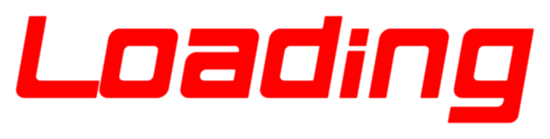
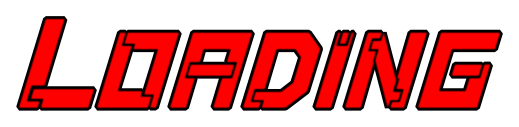
loading image changed + fixes of centering predictions

diff --git a/docs/js/game.js b/docs/js/game.js
@@ -77,10 +77,11 @@ async function runDetection() {
             if (boxes[i]["label"] == "fist") {
                 fisted = 1;
                 prevPaddleX = paddleX;
-                let midval = boxes[i]["left"] + boxes[i]["width"] / 2;
-                //лютый подгон под canvas
-                midval = 1.5*midval - 5;
-                relativeX = midval;
+
+                let rawvalX = boxes[i]["left"] + boxes[i]["width"] / 2;
+
+                relativeX = 1.1 * (canvas.width * rawvalX / 640) - 0.05 * canvas.width;
+
                 if (relativeX > paddleWidth / 2 && relativeX < canvas.width - paddleWidth / 2) {
                     recPaddleX = relativeX - paddleWidth / 2;
                 }
